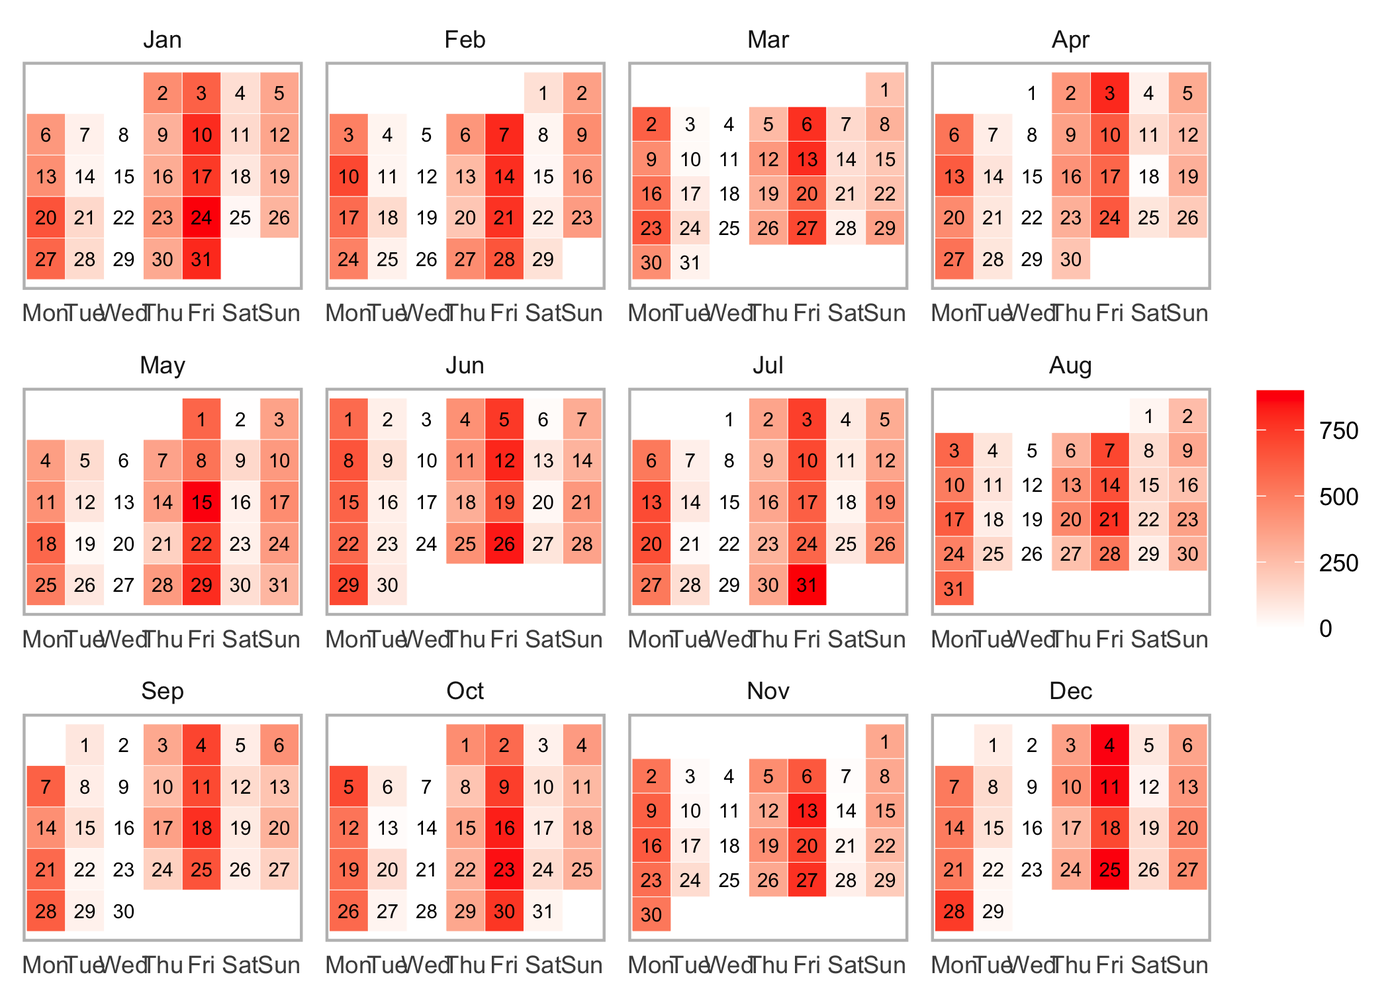
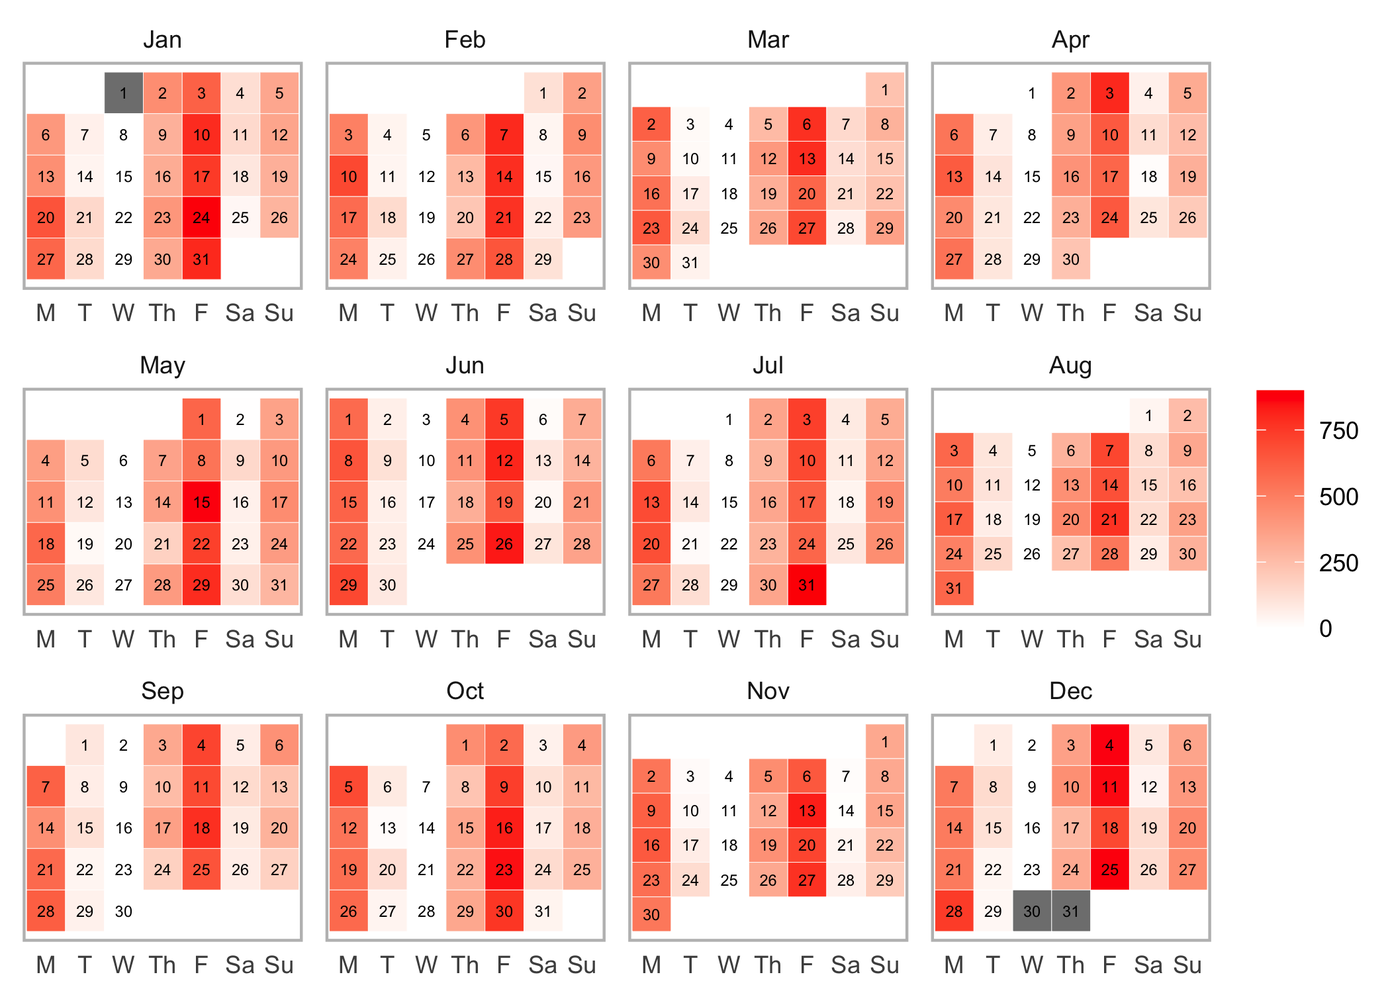
Rebuild site

diff --git a/docs/index.html b/docs/index.html
@@ -124,23 +124,23 @@
   variable <span class="op">=</span> <span class="st">"Variable"</span>,
   value <span class="op">=</span> <span class="st">"Value"</span>,
   acute <span class="op">=</span> <span class="fl">7</span>,
-  chronic <span class="op">=</span> <span class="fl">42</span>, 
-  
-  <span class="co"># How should be missing entry treated? </span>
+  chronic <span class="op">=</span> <span class="fl">42</span>,
+
+  <span class="co"># How should be missing entry treated?</span>
   <span class="co"># What do we assume? Zero load? Let's keep NA</span>
-  NA_session <span class="op">=</span>  <span class="cn">NA</span>,
-  
+  NA_session <span class="op">=</span> <span class="cn">NA</span>,
+
   <span class="co"># How should missing days (i.e. no entries) be treated?</span>
   <span class="co"># Here we assume no training, hence zero</span>
   NA_day <span class="op">=</span> <span class="fl">0</span>,
-  
+
   <span class="co"># How should be multiple day entries summarised?</span>
   <span class="co"># With "load", it is a "sum", with other metrics that</span>
   <span class="co"># do not aggregate, it can me "mean"</span>
   day_aggregate <span class="op">=</span> <span class="kw">function</span><span class="op">(</span><span class="va">x</span><span class="op">)</span> <span class="op">{</span>
     <span class="fu"><a href="https://rdrr.io/r/base/sum.html">sum</a></span><span class="op">(</span><span class="va">x</span>, na.rm <span class="op">=</span> <span class="cn">TRUE</span><span class="op">)</span>
   <span class="op">}</span>,
-  
+
   <span class="co"># Rolling estimators for Acute and Chronic windows</span>
   rolling_estimators <span class="op">=</span> <span class="kw">function</span><span class="op">(</span><span class="va">x</span><span class="op">)</span> <span class="op">{</span>
     <span class="fu"><a href="https://rdrr.io/r/base/c.html">c</a></span><span class="op">(</span>
@@ -149,17 +149,17 @@
       <span class="st">"cv"</span> <span class="op">=</span> <span class="fu"><a href="https://rdrr.io/r/stats/sd.html">sd</a></span><span class="op">(</span><span class="va">x</span>, na.rm <span class="op">=</span> <span class="cn">TRUE</span><span class="op">)</span> <span class="op">/</span> <span class="fu"><a href="https://rdrr.io/r/base/mean.html">mean</a></span><span class="op">(</span><span class="va">x</span>, na.rm <span class="op">=</span> <span class="cn">TRUE</span><span class="op">)</span>
     <span class="op">)</span>
   <span class="op">}</span>,
-  
+
   <span class="co"># Additional estimator post-rolling</span>
   posthoc_estimators <span class="op">=</span> <span class="kw">function</span><span class="op">(</span><span class="va">data</span><span class="op">)</span> <span class="op">{</span>
     <span class="va">data</span><span class="op">$</span><span class="va">ACD</span> <span class="op">&lt;-</span> <span class="va">data</span><span class="op">$</span><span class="va">acute.mean</span> <span class="op">-</span> <span class="va">data</span><span class="op">$</span><span class="va">chronic.mean</span>
     <span class="va">data</span><span class="op">$</span><span class="va">ACR</span> <span class="op">&lt;-</span> <span class="va">data</span><span class="op">$</span><span class="va">acute.mean</span> <span class="op">/</span> <span class="va">data</span><span class="op">$</span><span class="va">chronic.mean</span>
     <span class="va">data</span><span class="op">$</span><span class="va">ES</span> <span class="op">&lt;-</span> <span class="va">data</span><span class="op">$</span><span class="va">ACD</span> <span class="op">/</span> <span class="va">data</span><span class="op">$</span><span class="va">chronic.sd</span>
-    
+
     <span class="co"># Make sure to return the data</span>
     <span class="kw"><a href="https://rdrr.io/r/base/function.html">return</a></span><span class="op">(</span><span class="va">data</span><span class="op">)</span>
   <span class="op">}</span>,
-  
+
   <span class="co"># Group summary estimators</span>
   group_summary_estimators <span class="op">=</span> <span class="kw">function</span><span class="op">(</span><span class="va">x</span><span class="op">)</span> <span class="op">{</span>
     <span class="fu"><a href="https://rdrr.io/r/base/c.html">c</a></span><span class="op">(</span>
@@ -220,7 +220,7 @@
 <span class="co"># Table plot</span>
 <span class="co"># Produces formattable output with sparklines</span>
 <span class="co"># This will not work in the readme file, so just copy paste to your console</span>
-<span class="co">#plot(</span>
+<span class="co"># plot(</span>
 <span class="co">#  prepared_data,</span>
 <span class="co">#  type = "table",</span>
 <span class="co">#</span>
@@ -238,13 +238,14 @@
 <span class="co">#</span>
 <span class="co">#  # Round numbers</span>
 <span class="co">#  digits = 2</span>
-<span class="co">#)</span>
+<span class="co"># )</span>
 
 <span class="co"># Bar plot</span>
 <span class="co"># To plot group average</span>
 <span class="fu"><a href="https://rdrr.io/r/graphics/plot.default.html">plot</a></span><span class="op">(</span>
   <span class="va">prepared_data</span>,
-  type <span class="op">=</span> <span class="st">"bar"</span><span class="op">)</span>
+  type <span class="op">=</span> <span class="st">"bar"</span>
+<span class="op">)</span>
 <span class="co">#&gt; Plotting average across athletes. Please select athlete or use `trellis=TRUE`</span>
 <span class="co">#&gt; Warning: Removed 42 row(s) containing missing values (geom_path).</span>
 
@@ -255,7 +256,8 @@
 <span class="fu"><a href="https://rdrr.io/r/graphics/plot.default.html">plot</a></span><span class="op">(</span>
   <span class="va">prepared_data</span>,
   type <span class="op">=</span> <span class="st">"bar"</span>,
-  trellis <span class="op">=</span> <span class="cn">TRUE</span><span class="op">)</span>
+  trellis <span class="op">=</span> <span class="cn">TRUE</span>
+<span class="op">)</span>
 <span class="co">#&gt; Warning: Removed 420 row(s) containing missing values (geom_path).</span>
 <span class="co">#&gt; Warning: Removed 420 row(s) containing missing values (geom_path).</span></code></pre></div>
 <p><img src="reference/figures/README-unnamed-chunk-2-2.png" width="100%"></p>
@@ -278,7 +280,8 @@
   chronic_name <span class="op">=</span> <span class="st">"chronic.mean"</span>,
 
   <span class="co"># Plot last n entries/days</span>
-  last_n <span class="op">=</span> <span class="fl">42</span><span class="op">)</span>
+  last_n <span class="op">=</span> <span class="fl">42</span>
+<span class="op">)</span>
 <span class="co">#&gt; Plotting average across athletes. Please select athlete or use `trellis=TRUE`</span></code></pre></div>
 <p><img src="reference/figures/README-unnamed-chunk-2-3.png" width="100%"></p>
 <div class="sourceCode" id="cb6"><pre class="downlit sourceCode r">
@@ -289,7 +292,8 @@
   acute_name <span class="op">=</span> <span class="st">"acute.mean"</span>,
   chronic_name <span class="op">=</span> <span class="st">"chronic.mean"</span>,
   last_n <span class="op">=</span> <span class="fl">42</span>,
-  trellis <span class="op">=</span> <span class="cn">TRUE</span><span class="op">)</span></code></pre></div>
+  trellis <span class="op">=</span> <span class="cn">TRUE</span>
+<span class="op">)</span></code></pre></div>
 <p><img src="reference/figures/README-unnamed-chunk-2-4.png" width="100%"></p>
 <div class="sourceCode" id="cb7"><pre class="downlit sourceCode r">
 <code class="sourceCode R"><span class="co"># Line plots</span>
@@ -319,7 +323,8 @@
   group_upper_name <span class="op">=</span> <span class="st">"group.upper"</span>,
 
   <span class="co"># Use trellis if you do not plot for a single individual</span>
-  trellis <span class="op">=</span> <span class="cn">TRUE</span><span class="op">)</span></code></pre></div>
+  trellis <span class="op">=</span> <span class="cn">TRUE</span>
+<span class="op">)</span></code></pre></div>
 <p><img src="reference/figures/README-unnamed-chunk-2-5.png" width="100%"></p>
 <div class="sourceCode" id="cb8"><pre class="downlit sourceCode r">
 <code class="sourceCode R"><span class="co"># Previous chart looks messy because it plot all athletes</span>
@@ -328,13 +333,13 @@
   <span class="va">prepared_data</span>,
   type <span class="op">=</span> <span class="st">"line"</span>,
 
- <span class="co"># To filter out athletes</span>
+  <span class="co"># To filter out athletes</span>
   athlete_name <span class="op">=</span> <span class="st">"Ann Whitaker"</span>,
-
- group_lower_name <span class="op">=</span> <span class="st">"group.lower"</span>,
- group_central_name <span class="op">=</span> <span class="st">"group.median"</span>,
- group_upper_name <span class="op">=</span> <span class="st">"group.upper"</span>,
-  trellis <span class="op">=</span> <span class="cn">TRUE</span><span class="op">)</span></code></pre></div>
+  group_lower_name <span class="op">=</span> <span class="st">"group.lower"</span>,
+  group_central_name <span class="op">=</span> <span class="st">"group.median"</span>,
+  group_upper_name <span class="op">=</span> <span class="st">"group.upper"</span>,
+  trellis <span class="op">=</span> <span class="cn">TRUE</span>
+<span class="op">)</span></code></pre></div>
 <p><img src="reference/figures/README-unnamed-chunk-2-6.png" width="100%"></p>
 <div class="sourceCode" id="cb9"><pre class="downlit sourceCode r">
 <code class="sourceCode R">
@@ -342,23 +347,32 @@
 <span class="fu"><a href="https://rdrr.io/r/graphics/plot.default.html">plot</a></span><span class="op">(</span>
   <span class="va">prepared_data</span>,
   type <span class="op">=</span> <span class="st">"calendar"</span>,
-  
+
   <span class="co"># To filter out athletes</span>
   athlete_name <span class="op">=</span> <span class="st">"Ann Whitaker"</span>,
-  
+
   <span class="co"># To filter out variables</span>
   variable_name <span class="op">=</span> <span class="st">"Training Load"</span>,
-  
+
   <span class="co"># To print estimator</span>
   estimator_name <span class="op">=</span> <span class="st">"variable.value"</span>, <span class="co"># Or use "entries"</span>
 
   <span class="co"># To filter out last days</span>
- last_n <span class="op">=</span> <span class="fl">365</span>,
-  
+  last_n <span class="op">=</span> <span class="fl">365</span>,
+
   <span class="co"># To setup colors</span>
   low_color <span class="op">=</span> <span class="st">"white"</span>,
   high_color <span class="op">=</span> <span class="st">"red"</span>,
   na_color <span class="op">=</span> <span class="st">"grey50"</span>,
+  
+  <span class="co"># Should the whole year be plotted?</span>
+  full_year <span class="op">=</span> <span class="cn">TRUE</span>,
+
+  <span class="co"># Short weekdays?</span>
+  short_weekday <span class="op">=</span> <span class="cn">TRUE</span>,
+
+  <span class="co"># Label size</span>
+  label_size <span class="op">=</span> <span class="fl">2</span>,
   
   <span class="co"># Aggregation function in the case multiple athletes/variables/levels are used</span>
   aggregate_func <span class="op">=</span> <span class="va">mean</span>
@@ -374,7 +388,8 @@
   <span class="va">monitoring</span><span class="op">$</span><span class="va">Value</span>,
   breaks <span class="op">=</span> <span class="fl">5</span>,
   labels <span class="op">=</span> <span class="fu"><a href="https://rdrr.io/r/base/c.html">c</a></span><span class="op">(</span><span class="st">"Very Easy"</span>, <span class="st">"Easy"</span>, <span class="st">"Medium"</span>, <span class="st">"Hard"</span>, <span class="st">"Very Hard"</span><span class="op">)</span>,
-  include.lowest <span class="op">=</span> <span class="cn">TRUE</span><span class="op">)</span>
+  include.lowest <span class="op">=</span> <span class="cn">TRUE</span>
+<span class="op">)</span>
 
 
 <span class="co"># Create a missing value</span>
@@ -388,21 +403,21 @@
   variable <span class="op">=</span> <span class="st">"Variable"</span>,
   value <span class="op">=</span> <span class="st">"Value_nominal"</span>,
   acute <span class="op">=</span> <span class="fl">7</span>,
-  chronic <span class="op">=</span> <span class="fl">42</span>, 
-  
-  <span class="co"># How should be missing entry treated? </span>
-  NA_session <span class="op">=</span>  <span class="st">"&lt;&lt;&lt;Session Missed&gt;&gt;&gt;"</span>,
-  
+  chronic <span class="op">=</span> <span class="fl">42</span>,
+
+  <span class="co"># How should be missing entry treated?</span>
+  NA_session <span class="op">=</span> <span class="st">"&lt;&lt;&lt;Session Missed&gt;&gt;&gt;"</span>,
+
   <span class="co"># How should missing days (i.e. no entries) be treated?</span>
   NA_day <span class="op">=</span> <span class="st">"&lt;&lt;&lt;Day Missed&gt;&gt;&gt;"</span>,
-  
+
   <span class="co"># How should be multiple day entries summarised?</span>
   <span class="co"># With "load", it is a "sum", with other metrics that</span>
   <span class="co"># do not aggregate, it can me "mean"</span>
   day_aggregate <span class="op">=</span> <span class="kw">function</span><span class="op">(</span><span class="va">x</span><span class="op">)</span> <span class="op">{</span>
     <span class="fu"><a href="https://rdrr.io/r/base/sum.html">sum</a></span><span class="op">(</span><span class="va">x</span>, na.rm <span class="op">=</span> <span class="cn">TRUE</span><span class="op">)</span>
   <span class="op">}</span>,
-  
+
   <span class="co"># Rolling estimators for Acute and Chronic windows</span>
   rolling_estimators <span class="op">=</span> <span class="kw">function</span><span class="op">(</span><span class="va">x</span><span class="op">)</span> <span class="op">{</span>
     <span class="fu"><a href="https://rdrr.io/r/base/c.html">c</a></span><span class="op">(</span>
@@ -411,17 +426,17 @@
       <span class="st">"cv"</span> <span class="op">=</span> <span class="fu"><a href="https://rdrr.io/r/stats/sd.html">sd</a></span><span class="op">(</span><span class="va">x</span>, na.rm <span class="op">=</span> <span class="cn">TRUE</span><span class="op">)</span> <span class="op">/</span> <span class="fu"><a href="https://rdrr.io/r/base/mean.html">mean</a></span><span class="op">(</span><span class="va">x</span>, na.rm <span class="op">=</span> <span class="cn">TRUE</span><span class="op">)</span>
     <span class="op">)</span>
   <span class="op">}</span>,
-  
+
   <span class="co"># Additional estimator post-rolling</span>
   posthoc_estimators <span class="op">=</span> <span class="kw">function</span><span class="op">(</span><span class="va">data</span><span class="op">)</span> <span class="op">{</span>
     <span class="va">data</span><span class="op">$</span><span class="va">ACD</span> <span class="op">&lt;-</span> <span class="va">data</span><span class="op">$</span><span class="va">acute.mean</span> <span class="op">-</span> <span class="va">data</span><span class="op">$</span><span class="va">chronic.mean</span>
     <span class="va">data</span><span class="op">$</span><span class="va">ACR</span> <span class="op">&lt;-</span> <span class="va">data</span><span class="op">$</span><span class="va">acute.mean</span> <span class="op">/</span> <span class="va">data</span><span class="op">$</span><span class="va">chronic.mean</span>
     <span class="va">data</span><span class="op">$</span><span class="va">ES</span> <span class="op">&lt;-</span> <span class="va">data</span><span class="op">$</span><span class="va">ACD</span> <span class="op">/</span> <span class="va">data</span><span class="op">$</span><span class="va">chronic.sd</span>
-    
+
     <span class="co"># Make sure to return the data</span>
     <span class="kw"><a href="https://rdrr.io/r/base/function.html">return</a></span><span class="op">(</span><span class="va">data</span><span class="op">)</span>
   <span class="op">}</span>,
-  
+
   <span class="co"># Group summary estimators</span>
   group_summary_estimators <span class="op">=</span> <span class="kw">function</span><span class="op">(</span><span class="va">x</span><span class="op">)</span> <span class="op">{</span>
     <span class="fu"><a href="https://rdrr.io/r/base/c.html">c</a></span><span class="op">(</span>
@@ -468,7 +483,8 @@
   <span class="va">monitoring</span><span class="op">$</span><span class="va">Value</span>,
   breaks <span class="op">=</span> <span class="fl">5</span>,
   labels <span class="op">=</span> <span class="fu"><a href="https://rdrr.io/r/base/c.html">c</a></span><span class="op">(</span><span class="st">"Very Easy"</span>, <span class="st">"Easy"</span>, <span class="st">"Medium"</span>, <span class="st">"Hard"</span>, <span class="st">"Very Hard"</span><span class="op">)</span>,
-  include.lowest <span class="op">=</span> <span class="cn">TRUE</span><span class="op">)</span>
+  include.lowest <span class="op">=</span> <span class="cn">TRUE</span>
+<span class="op">)</span>
 
 <span class="co"># Run the athlete monitoring data preparation</span>
 <span class="va">prepared_data</span> <span class="op">&lt;-</span> <span class="fu"><a href="reference/prepare.html">prepare</a></span><span class="op">(</span>
@@ -478,47 +494,47 @@
   variable <span class="op">=</span> <span class="st">"Variable"</span>,
   value <span class="op">=</span> <span class="st">"Value_nominal"</span>,
   acute <span class="op">=</span> <span class="fl">7</span>,
-  chronic <span class="op">=</span> <span class="fl">42</span>, 
-  
-  <span class="co"># How should be missing entry treated? </span>
-  NA_session <span class="op">=</span>  <span class="st">"&lt;&lt;&lt;Session Missed&gt;&gt;&gt;"</span>,
- 
+  chronic <span class="op">=</span> <span class="fl">42</span>,
+
+  <span class="co"># How should be missing entry treated?</span>
+  NA_session <span class="op">=</span> <span class="st">"&lt;&lt;&lt;Session Missed&gt;&gt;&gt;"</span>,
+
   <span class="co"># How should missing days (i.e. no entries) be treated?</span>
   NA_day <span class="op">=</span> <span class="st">"&lt;&lt;&lt;Day Missed&gt;&gt;&gt;"</span>,
-  
+
   <span class="co"># How should be multiple day entries summarised?</span>
   <span class="co"># This is different with levels, for example</span>
   <span class="co"># when there are two sessions, one is Low and one Hard</span>
   <span class="co"># if you use mean, then Low and Hard will be 0.5, with sum</span>
-  <span class="co"># both will be 0.5, in which case the level probabilities will be </span>
+  <span class="co"># both will be 0.5, in which case the level probabilities will be</span>
   <span class="co"># summed to 1</span>
   day_aggregate <span class="op">=</span> <span class="kw">function</span><span class="op">(</span><span class="va">x</span><span class="op">)</span> <span class="op">{</span>
     <span class="fu"><a href="https://rdrr.io/r/base/mean.html">mean</a></span><span class="op">(</span><span class="va">x</span>, na.rm <span class="op">=</span> <span class="cn">TRUE</span><span class="op">)</span>
   <span class="op">}</span>,
-  
- <span class="co"># Rolling estimators for Acute and Chronic windows</span>
+
+  <span class="co"># Rolling estimators for Acute and Chronic windows</span>
   rolling_estimators <span class="op">=</span> <span class="kw">function</span><span class="op">(</span><span class="va">x</span><span class="op">)</span> <span class="op">{</span>
     <span class="fu"><a href="https://rdrr.io/r/base/c.html">c</a></span><span class="op">(</span>
       <span class="st">"prop"</span> <span class="op">=</span> <span class="fu"><a href="https://rdrr.io/r/base/mean.html">mean</a></span><span class="op">(</span><span class="va">x</span>, na.rm <span class="op">=</span> <span class="cn">TRUE</span><span class="op">)</span>
     <span class="op">)</span>
   <span class="op">}</span>,
-  
+
   <span class="co"># Additional estimator post-rolling</span>
   posthoc_estimators <span class="op">=</span> <span class="kw">function</span><span class="op">(</span><span class="va">data</span><span class="op">)</span> <span class="op">{</span>
     <span class="va">data</span><span class="op">$</span><span class="va">ACD</span> <span class="op">&lt;-</span> <span class="va">data</span><span class="op">$</span><span class="va">acute.prop</span> <span class="op">-</span> <span class="va">data</span><span class="op">$</span><span class="va">chronic.prop</span>
     <span class="va">data</span><span class="op">$</span><span class="va">ACR</span> <span class="op">&lt;-</span> <span class="va">data</span><span class="op">$</span><span class="va">acute.prop</span> <span class="op">/</span> <span class="va">data</span><span class="op">$</span><span class="va">chronic.prop</span>
-    
+
     <span class="co"># Make sure to return the data</span>
     <span class="kw"><a href="https://rdrr.io/r/base/function.html">return</a></span><span class="op">(</span><span class="va">data</span><span class="op">)</span>
   <span class="op">}</span>,
-  
+
   <span class="co"># Group summary estimators</span>
   group_summary_estimators <span class="op">=</span> <span class="kw">function</span><span class="op">(</span><span class="va">x</span><span class="op">)</span> <span class="op">{</span>
-   <span class="fu"><a href="https://rdrr.io/r/base/c.html">c</a></span><span class="op">(</span>
-     <span class="st">"median"</span> <span class="op">=</span> <span class="fu"><a href="https://rdrr.io/r/stats/median.html">median</a></span><span class="op">(</span><span class="va">x</span>, na.rm <span class="op">=</span> <span class="cn">TRUE</span><span class="op">)</span>,
+    <span class="fu"><a href="https://rdrr.io/r/base/c.html">c</a></span><span class="op">(</span>
+      <span class="st">"median"</span> <span class="op">=</span> <span class="fu"><a href="https://rdrr.io/r/stats/median.html">median</a></span><span class="op">(</span><span class="va">x</span>, na.rm <span class="op">=</span> <span class="cn">TRUE</span><span class="op">)</span>,
       <span class="st">"lower"</span> <span class="op">=</span> <span class="fu"><a href="https://rdrr.io/r/stats/quantile.html">quantile</a></span><span class="op">(</span><span class="va">x</span>, <span class="fl">0.25</span>, na.rm <span class="op">=</span> <span class="cn">TRUE</span><span class="op">)</span><span class="op">[[</span><span class="fl">1</span><span class="op">]</span><span class="op">]</span>,
       <span class="st">"upper"</span> <span class="op">=</span> <span class="fu"><a href="https://rdrr.io/r/stats/quantile.html">quantile</a></span><span class="op">(</span><span class="va">x</span>, <span class="fl">0.75</span>, na.rm <span class="op">=</span> <span class="cn">TRUE</span><span class="op">)</span><span class="op">[[</span><span class="fl">1</span><span class="op">]</span><span class="op">]</span>
-   <span class="op">)</span>
+    <span class="op">)</span>
   <span class="op">}</span>
 <span class="op">)</span>
 <span class="co">#&gt; Using nominal approach: column 'value' in the 'data' provided is not numeric. It will be treated as nominal and each level will be analyzed as separate variable using rolling counts approach.</span>
@@ -572,16 +588,15 @@
 <span class="fu"><a href="https://rdrr.io/r/graphics/plot.default.html">plot</a></span><span class="op">(</span>
   <span class="va">prepared_data</span>,
   type <span class="op">=</span> <span class="st">"line"</span>,
-  
+
   <span class="co"># To filter out athletes</span>
   athlete_name <span class="op">=</span> <span class="st">"Ann Whitaker"</span>,
-  
+
   <span class="co"># To filter out variables</span>
   variable_name <span class="op">=</span> <span class="st">"Training Load"</span>,
-  
+
   <span class="co"># To filter out estimators</span>
   estimator_name <span class="op">=</span> <span class="st">"acute.prop"</span>,
-  
   group_lower_name <span class="op">=</span> <span class="st">"group.lower"</span>,
   group_central_name <span class="op">=</span> <span class="st">"group.median"</span>,
   group_upper_name <span class="op">=</span> <span class="st">"group.upper"</span>,

diff --git a/docs/reference/prepare.html b/docs/reference/prepare.html
@@ -459,6 +459,15 @@ to be either <code>Date</code> or <code>numeric</code> class</p></td>
   high_color <span class='op'>=</span> <span class='st'>"red"</span>,
   na_color <span class='op'>=</span> <span class='st'>"grey50"</span>,
 
+  <span class='co'># Should the whole year be plotted?</span>
+  full_year <span class='op'>=</span> <span class='cn'>TRUE</span>,
+
+  <span class='co'># Short weekdays?</span>
+  short_weekday <span class='op'>=</span> <span class='cn'>TRUE</span>,
+
+  <span class='co'># Label size</span>
+  label_size <span class='op'>=</span> <span class='fl'>2</span>,
+
   <span class='co'># Aggregation function in the case multiple athletes/variables/levels are used</span>
   aggregate_func <span class='op'>=</span> <span class='va'>mean</span>
 <span class='op'>)</span>

diff --git a/docs/reference/plot.athletemonitoring.html b/docs/reference/plot.athletemonitoring.html
@@ -386,6 +386,15 @@
   high_color <span class='op'>=</span> <span class='st'>"red"</span>,
   na_color <span class='op'>=</span> <span class='st'>"grey50"</span>,
 
+  <span class='co'># Should the whole year be plotted?</span>
+  full_year <span class='op'>=</span> <span class='cn'>TRUE</span>,
+
+  <span class='co'># Short weekdays?</span>
+  short_weekday <span class='op'>=</span> <span class='cn'>TRUE</span>,
+
+  <span class='co'># Label size</span>
+  label_size <span class='op'>=</span> <span class='fl'>2</span>,
+
   <span class='co'># Aggregation function in the case multiple athletes/variables/levels are used</span>
   aggregate_func <span class='op'>=</span> <span class='va'>mean</span>
 <span class='op'>)</span>
